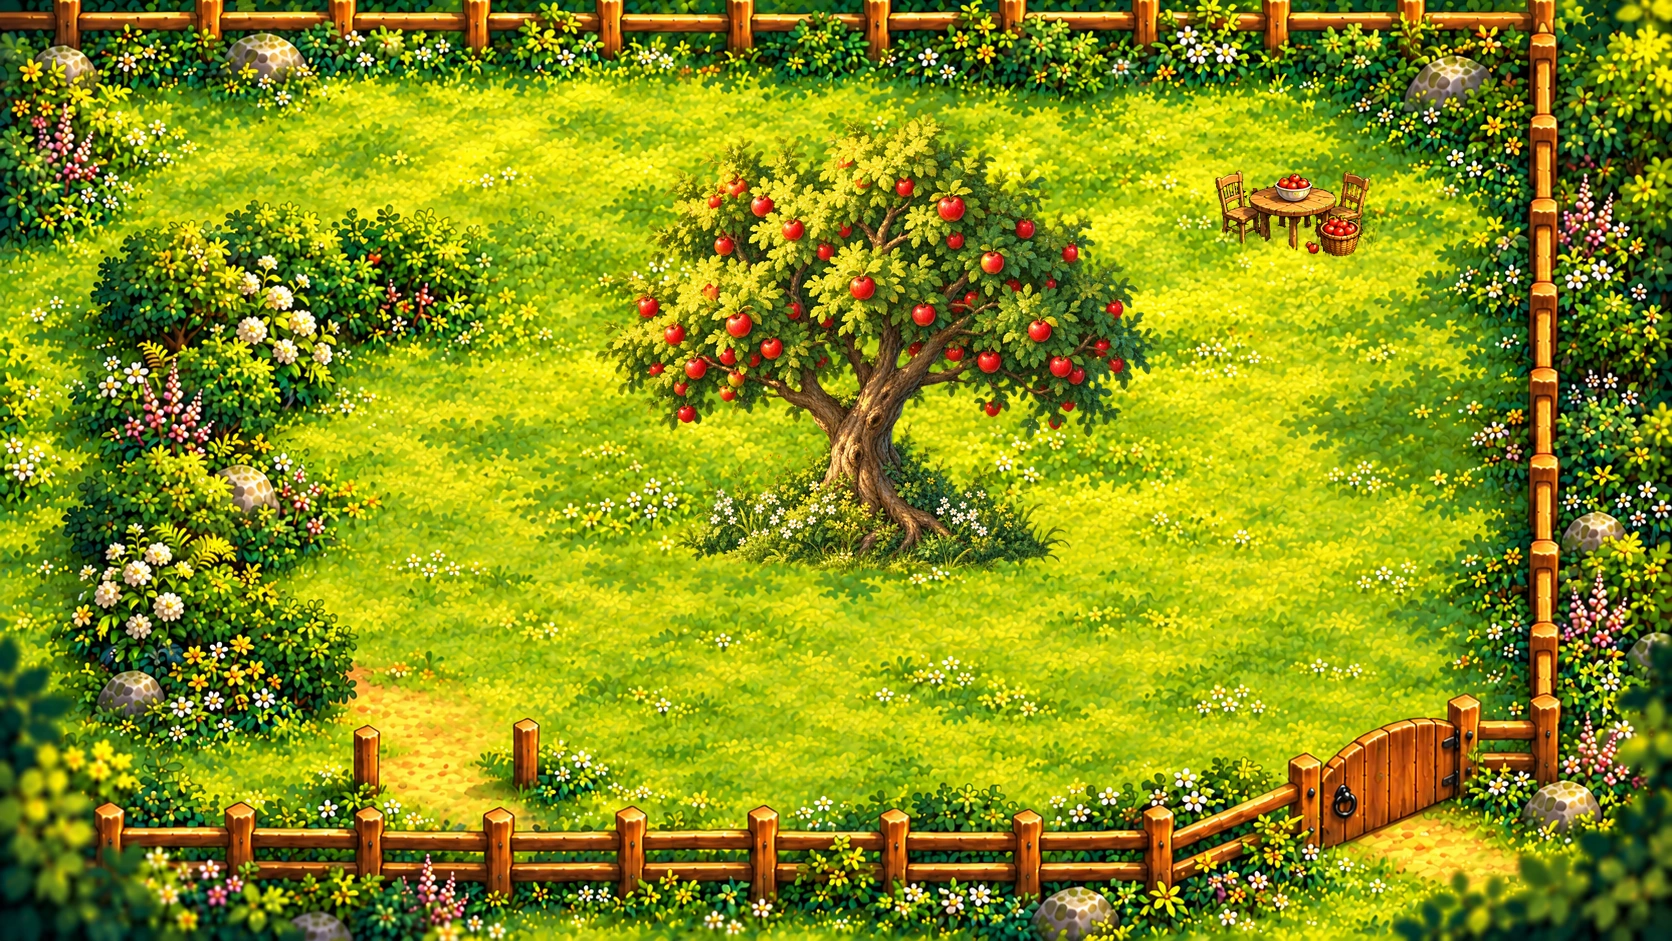
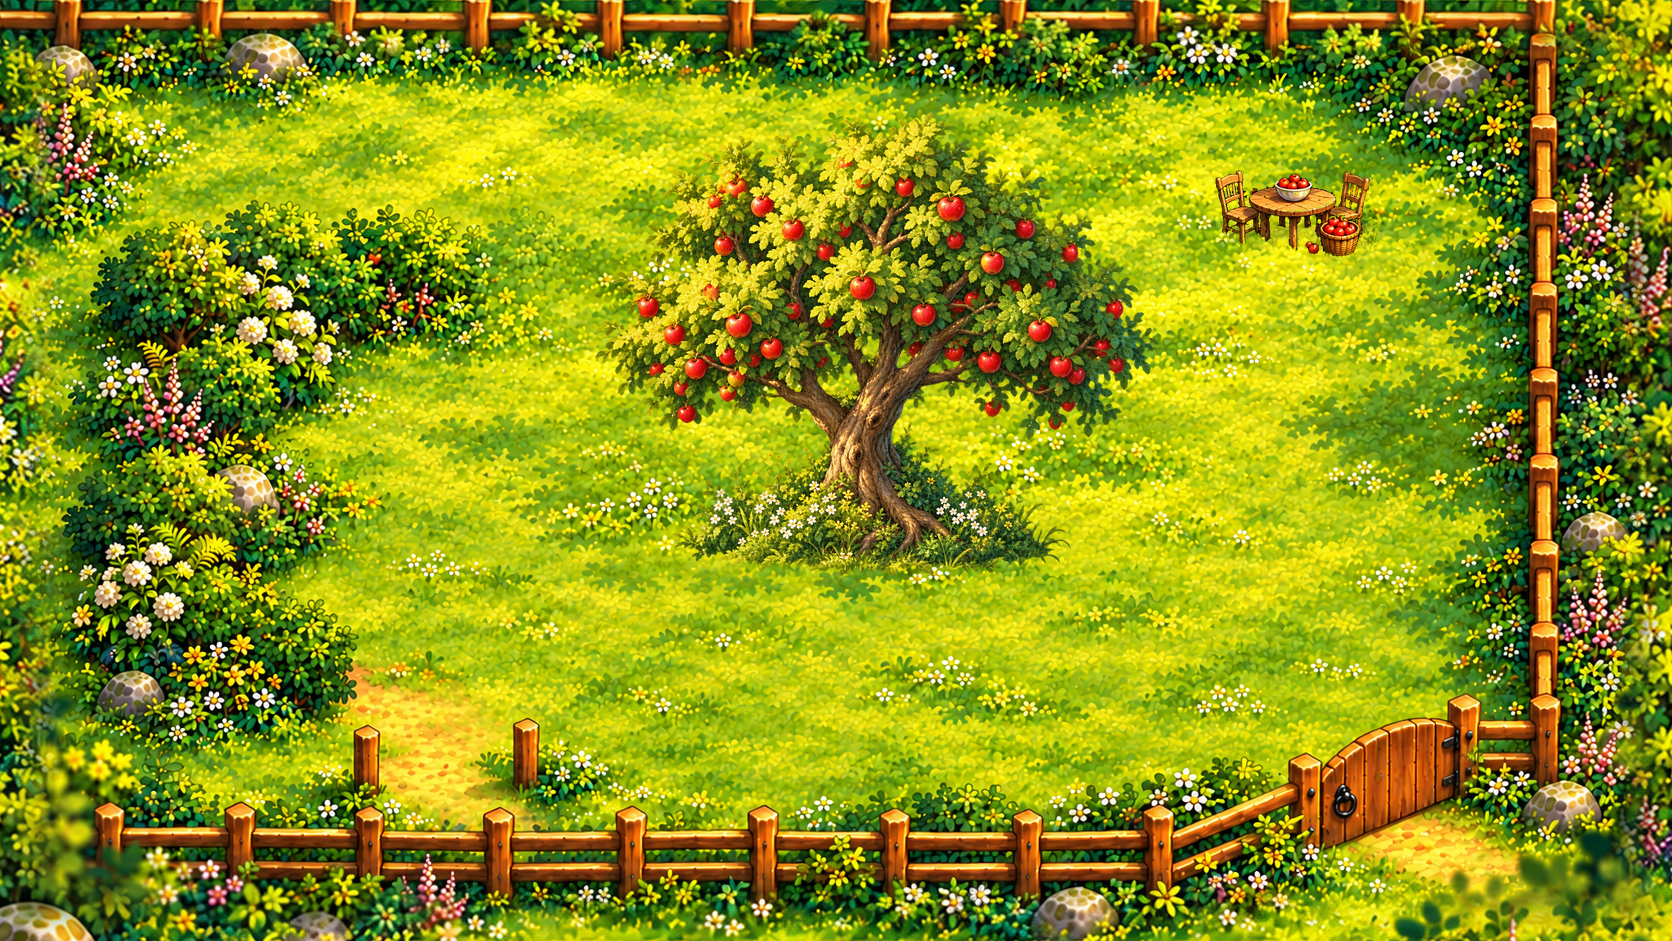
art(#45): stage painted garden wide with guarded native seam cleanup

diff --git a/scripts/art-garden-well-wide.py b/scripts/art-garden-well-wide.py
@@ -1,0 +1,64 @@
+"""Register real builtin outpaint and apply painted decorative seam pixels only."""
+from pathlib import Path
+from PIL import Image,ImageDraw,ImageFilter,ImageChops
+import json,sys,hashlib
+ROOT=Path(__file__).resolve().parents[1]
+ART=ROOT/'art/chapter-1-v9';OWN=ART/'garden-well';OUT=OWN/'outpaint'
+scene=sys.argv[1] if len(sys.argv)>1 else 'garden'
+PUBLIC=ROOT/f'public/assets/chapter-1-garden-well/{scene}'
+def register(source):
+    im=Image.open(source).convert('RGB');scale=3272/im.width
+    size=(3272,round(im.height*scale));im=im.resize(size,Image.Resampling.LANCZOS)
+    assert im.height>=1200
+    top=(im.height-1200)//2
+    return im.crop((0,top,3272,top+1200)),{'sourceSize':list(Image.open(source).size),'uniformScale':scale,'scaledSize':list(size),'verticalCropStart':top}
+generated,registration=register(OUT/f'{scene}-seam-painted-v1.png')
+wide,base_registration=register(OUT/f'{scene}-wide-source-v1.png')
+core=Image.open(OWN/f'{scene}-native-v1.png').convert('RGB')
+wide.paste(core,(800,129))
+layout=json.loads((ART/f'packages/{scene}/geometry.json').read_text())
+guard=Image.new('L',core.size);d=ImageDraw.Draw(guard)
+for cell in layout['cells']:
+    if cell['terrain'] is None:d.polygon([(p['x'],p['y']) for p in cell['polygon']],fill=255)
+guard=guard.filter(ImageFilter.MaxFilter(13))
+if scene=='well':
+    # Preserve complete original architecture, including roof/chimney high tips.
+    d=ImageDraw.Draw(guard)
+    d.rectangle((100,45,480,340),fill=255)
+    d.rectangle((1190,45,1530,420),fill=255)
+mask=Image.new('L',(3272,1200));p=mask.load()
+for y in range(1200):
+    for x in range(3272):
+        a=x-800;b=y-129
+        if 0<=a<1672 and 0<=b<941:
+            distance=min(a,b,1671-a,940-b);t=max(0,1-distance/72)
+            if guard.getpixel((a,b)):t=0
+        else:
+            distance=max(-a,a-1671,-b,b-940,0);t=min(1,max(0,(192-distance)/80))
+        p[x,y]=round(255*t*t*(3-2*t))
+result=Image.composite(generated,wide,mask)
+delivered=result.crop((800,129,2472,1070))
+diff=ImageChops.difference(core,delivered)
+assert all(ImageChops.multiply(channel,guard).getbbox() is None for channel in diff.split())
+assert diff.crop((72,72,1600,869)).getbbox() is None
+if scene=='garden':
+    for name in ['tree','table']:
+        alpha=Image.open(OWN/f'layers/garden-{name}-v1.png').getchannel('A')
+        assert all(ImageChops.multiply(c,alpha).getbbox() is None for c in diff.split())
+result.save(OUT/f'{scene}-wide-painted-v1.png')
+delivered.save(OUT/f'{scene}-native-painted-join-v1.png')
+mask.save(OUT/f'{scene}-painted-join-mask.png')
+PUBLIC.mkdir(parents=True,exist_ok=True)
+result.save(PUBLIC/'wide.webp',lossless=True,method=6)
+delivered.save(PUBLIC/'background.webp',lossless=True,method=6)
+assert ImageChops.difference(Image.open(PUBLIC/'background.webp').convert('RGB'),Image.open(PUBLIC/'wide.webp').convert('RGB').crop((800,129,2472,1070))).getbbox() is None
+overlay=result.copy();ImageDraw.Draw(overlay).rectangle((800,129,2471,1069),outline='#ff5060',width=2);overlay.save(OUT/f'{scene}-painted-registration-overlay.png')
+manifest_path=PUBLIC.parent/f'{scene}-manifest.json';manifest=json.loads(manifest_path.read_text())
+contract={'canvas':{'width':3272,'height':1200},'originalRect':{'x':800,'y':129,'width':1672,'height':941},'file':f'{scene}/wide.webp','registration':registration,'baseRegistration':base_registration,'joinBand':48,'paintedSeam':{'method':'builtin painted edit constrained to decorative source-pixel perimeter','coreBand':72,'outerAdjacency':192,'freePolygonGuard':6,'completeFreePolygonChangedPixels':0,'coreInteriorChangedPixels':0,'nativePropsChangedPixels':0,'wideOriginalRectBitExact':True},'status':'source-candidate-awaiting-actual-game'}
+manifest['wide']=contract;manifest['status']='native-and-wide-awaiting-actual-game'
+manifest['sourceBeforeJoin']=str((OWN/f'{scene}-native-v1.png').relative_to(ROOT))
+manifest['source']=str((OUT/f'{scene}-native-painted-join-v1.png').relative_to(ROOT))
+manifest['sourceSha256']=hashlib.sha256((OUT/f'{scene}-native-painted-join-v1.png').read_bytes()).hexdigest()
+manifest_path.write_text(json.dumps(manifest,ensure_ascii=False,indent=2)+'\n')
+(OUT/f'{scene}-painted-join-checks.json').write_text(json.dumps(contract,indent=2)+'\n')
+print(json.dumps(contract))

diff --git a/scripts/art-garden-well-native.py b/scripts/art-garden-well-native.py
@@ -91,4 +91,3 @@ def well():
     (OUT/'review/well-native-v1-checks.json').write_text(json.dumps(checks,indent=2)+'\n');print(json.dumps(checks))
 if __name__=='__main__':
     well() if len(sys.argv)>1 and sys.argv[1]=='well' else garden()
-

diff --git a/docs/chapter-1-rc/art/garden-well/GARDEN-WIDE.md b/docs/chapter-1-rc/art/garden-well/GARDEN-WIDE.md
@@ -1,0 +1,9 @@
+# Garden painted wide source proof
+
+Builtin imagegen painted a complete surrounding countryside from a3272×1200 transparent registration input containing native1672×941 at800,129. Raw output is2070×760, not a claim of native3272px detail. Uniform width registration gives3272×1201 with one bottom pixel cropped; no anisotropic scaling. First exact native-core paste exposed an obvious rectangle because the old native edge contains dark blurry foreground plants. This registered attempt is retained as rejected join evidence, not delivered.
+
+A second builtin precise painted edit replaced the four artificial joins with continuous irregular plants/grass/fence-adjacent details. It is not a blurred or reflected ring. Dedicated script takes actual generated pixels only in a72px decorative native perimeter and192px outer adjacency, with complete free polygons+6px protected. The original core interior remains unchanged; full tree/table alpha pixels also assert unchanged. Original source, original native before join, raw outpaint, raw seam painting, masks and exact prompts retained.
+
+Public lossless wide3272×1200 has exact originalRect800,129,1672,941 matching the delivered lossless native background byte-for-byte. JoinBand48 matches common contract. Full free-polygon pixel changes0; core interior0; native prop changes0. Opaque outer artwork covers entire canvas, no template/white/transparent bands, mirrored landmarks or duplicate table/tree.
+
+Whole candidate was viewed; prominent rectangular frame is gone. A local darker foreground shade near bottom-right still needs coordinator's actual viewport review, so this is a source candidate, not final game acceptance. No runtime/common manifest edits here. Reproduce `python3 scripts/art-garden-well-wide.py garden` after preserved builtin sources.
